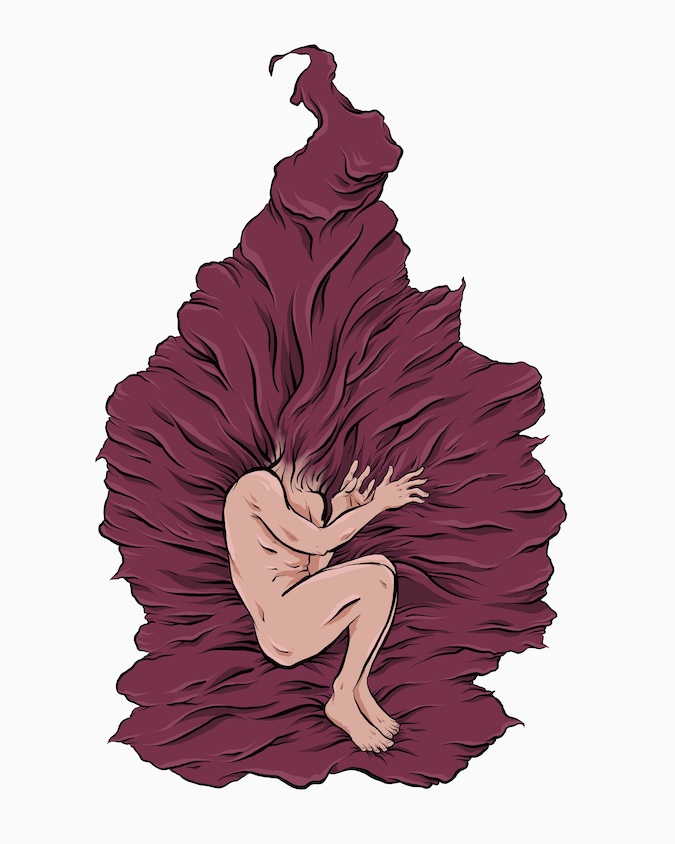
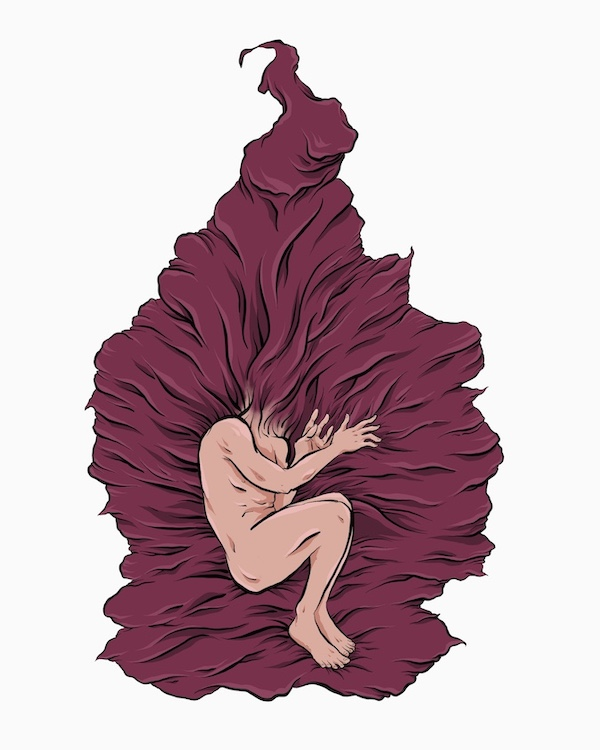
Add selfie image to About Me, styled in css with padding and float, shrink bedhead image, add Linkedin and Mailto link in About Me section.

Changed region(s): [[0.66, 0.3373, 0.69, 0.368], [0.6, 0.552, 0.63, 0.5827]]

diff --git a/index.html b/index.html
@@ -48,7 +48,7 @@
 
         <h1>The first projects in an exciting journey...</h1>
         <blockquote class="bg-general">
-          <p>"Never underestimate the power of dreams and the influence of the human spirit. We are all the same in this notion: The potential for greatness lives within each of us."</p>
+          <p class="quote">"Never underestimate the power of dreams and the influence of the human spirit. We are all the same in this notion: The potential for greatness lives within each of us."</p>
           <footer>Wilma Rudolph</footer>
         </blockquote>
 
@@ -94,7 +94,7 @@
         <div class="col-lg-12">
           <div class="well">
             <h2>About Ian</h2>
-            <p>I'm a web developer in training in the moment! I went to one of the most prestigious high schools in the California Bay Area, De La Salle, and landed at CSU Monterey Bay studying Visual Public Arts. After running out of money for college, I transferred directly in to working in museums and galleries, doing art installations and creating custom archival frames for fine art. After around 10 years of having a blast and loving the art world, I decided it's time to make a career pivot and combine my experience in design with the digital world.</p>
+            <p><img class="selfie" src ="img/selfie.jpg" alt="A selfie of the web developer.">I'm a web developer in training in the moment! I went to one of the most prestigious high schools in the California Bay Area, De La Salle, and landed at CSU Monterey Bay studying Visual Public Arts. After making a tough decision to leave college due to personal issues, I transferred directly in to working in museums and galleries, doing art installations and creating custom archival frames for fine art. After around 10 years of having a blast and loving the art world, I decided it's time to make a career pivot and combine my experience in design with the digital world.</p>
             <p>Favorite activities you ask? When not studying coding, I tend to be doing a few things, in no particular order...</p>
               <ul>
                 <li>Fly fishing. Yup, nothing feels better than being on the river.</li>
@@ -102,11 +102,11 @@
                 <li>Doodling. The guy sleeping in bed at the top of the page? I doodled it. It's called "Bedhead." I enjoy creating art and stickers, giving them out to friends and clients alike.</li>
                 <li>Movies and video games? Yeah, we all like to remember when were a kid. These are two of the things that take me back in time like no other.</li>
               </ul>
+            <p>Feel like reaching out? Shoot me an email <a href="mailto:usesomeink@gmail.com">here</a> and let's chat more!</p>
+            <p>On Linkedin? <a href="https://www.linkedin.com/in/ian-tomasino/">Check me out!</a> </p>
 
           </div>
-
         </div>
-
       </div>
 
 

diff --git a/css/style.css b/css/style.css
@@ -13,3 +13,12 @@
   float: right;
   padding-left: 20px;
 }
+.quote {
+  font-style: italic;
+}
+.selfie {
+  float: left;
+  padding-right: 20px;
+  padding-top: 20px;
+  padding-bottom: 20px;
+}
